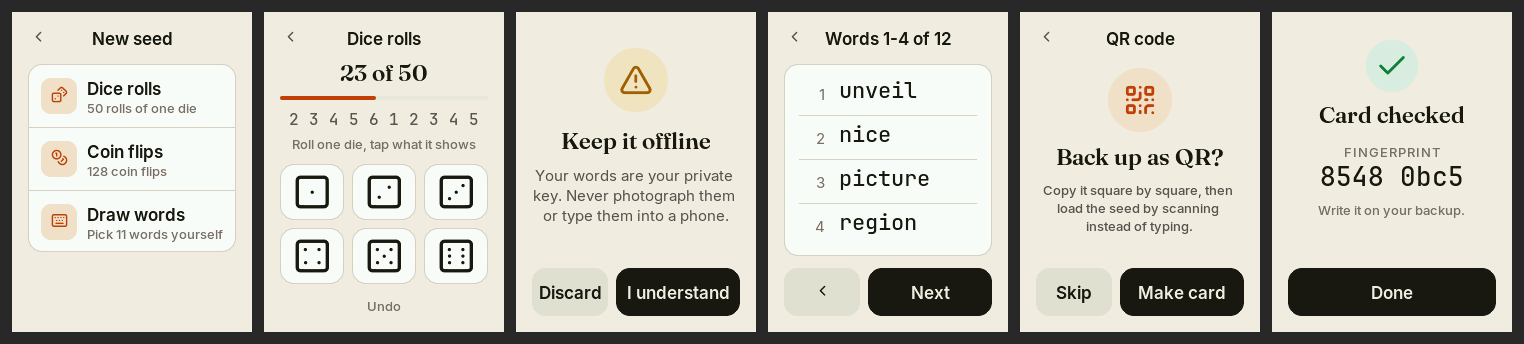
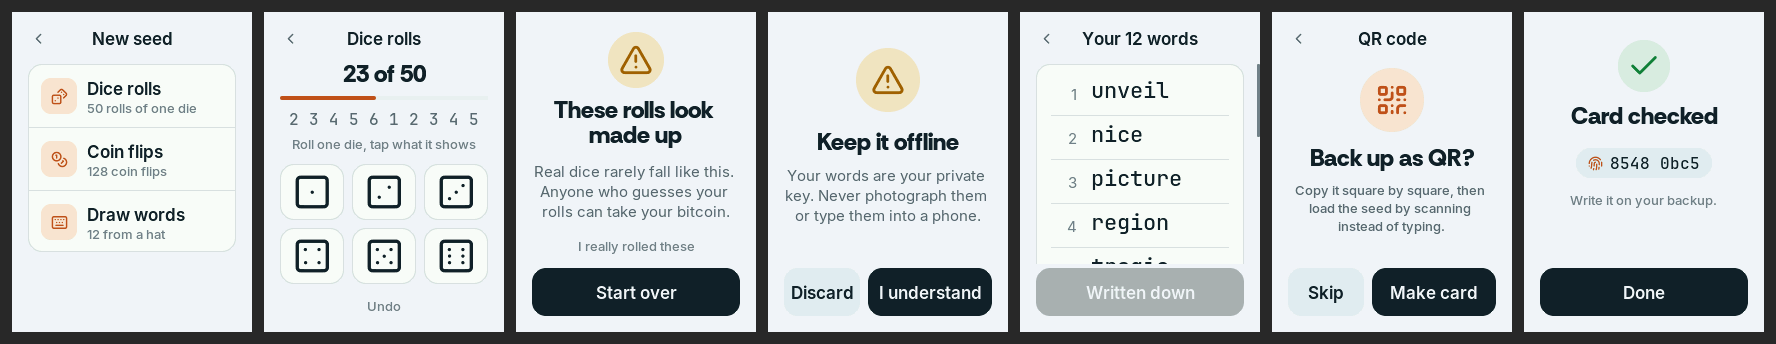
Made-up rolls check: accept only from its own screens; New seed flow picture redone
ui_entropy_accept() now checks the screen like its siblings do. The New
seed flow picture in the README was from an older theme; rebuilt from the
current SIM_SHOTS run, with the made-up rolls warning in it.

diff --git a/firmware/src/app/ui.cpp b/firmware/src/app/ui.cpp
@@ -1312,7 +1312,8 @@ void ui_entropy_input(char c) {
 }
 
 void ui_entropy_accept() {
-    if (entropy_n != entropy_needed()) return;
+    UiScreen s = ui_current();
+    if ((s != UI_ENTROPY_SUSPECT && s != UI_ENTROPY_DICE && s != UI_ENTROPY_COINS) || entropy_n != entropy_needed()) return;
     bool ok = final_flips   ? seed_final_word(word_idx, new_words, entropy_in, &pending)
               : entropy_dice ? seed_from_dice(entropy_in, entropy_n, new_words, &pending)
                              : seed_from_coins(entropy_in, entropy_n, new_words, &pending);
